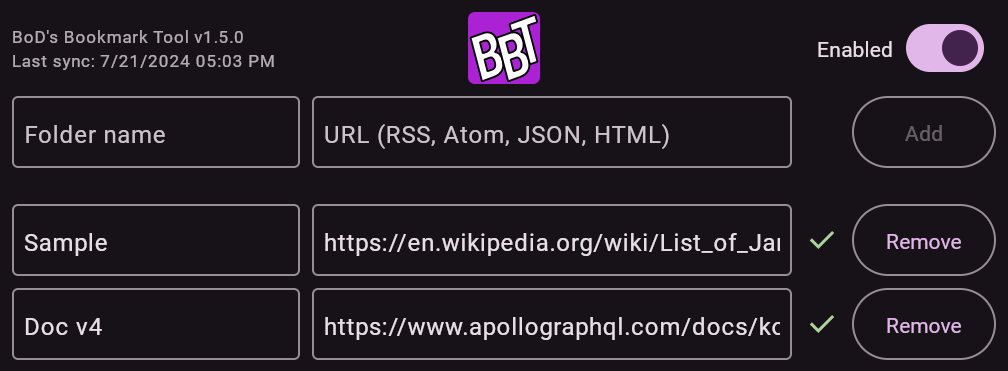
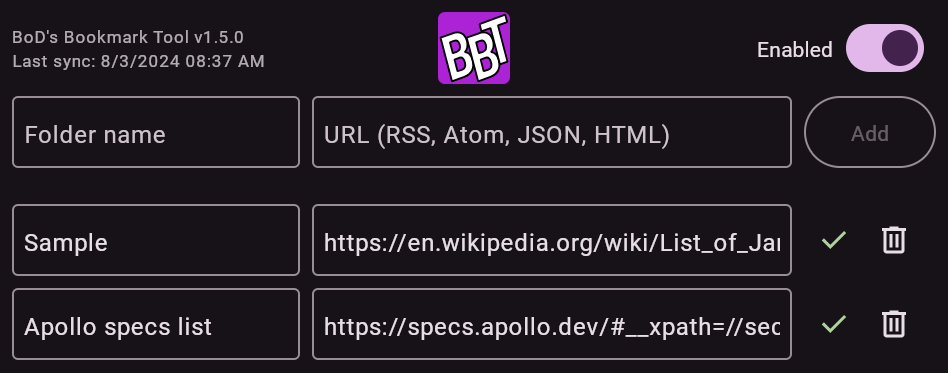
Update README and tweak popup UI

diff --git a/popup/src/jsMain/kotlin/org/jraf/bbt/popup/Popup.kt b/popup/src/jsMain/kotlin/org/jraf/bbt/popup/Popup.kt
@@ -233,6 +233,7 @@ private fun ColumnScope.SyncItemList(
 
           // Remove button
           IconButton(
+            modifier = Modifier.width(40.dp),
             onClick = {
               onRemoveItem(syncItem)
             },
@@ -285,7 +286,7 @@ private fun AddItemRow(onAddItem: suspend (folderName: String, remoteBookmarksUr
     var remoteBookmarksUrlErrorText: String? by remember { mutableStateOf(null) }
     DenseOutlinedTextField(
       modifier = Modifier.width(320.dp),
-      placeholder = { Text("URL (RSS, Atom, JSON, HTML)") },
+      placeholder = { Text("URL (RSS, Atom, OPML, JSON, HTML)") },
       value = remoteBookmarksUrl,
       singleLine = true,
       onValueChange = {
@@ -307,7 +308,7 @@ private fun AddItemRow(onAddItem: suspend (folderName: String, remoteBookmarksUr
     OutlinedButton(
       modifier = Modifier
         .height(48.dp)
-        .width(88.dp),
+        .width(80.dp),
       contentPadding = PaddingValues(0.dp),
       enabled = isAddButtonEnabled,
       onClick = {

diff --git a/README.md b/README.md
@@ -1,6 +1,6 @@
 # BoD's Bookmark Tool
 
-This small extension for Chrome allows you to synchronize any bookmark folder with a remote document.
+This small extension for Chrome allows you to synchronize bookmark folders with a remote document.
 
 Ideal to share a bunch of bookmarks with your team at work, or your loved ones!
 
@@ -13,18 +13,25 @@ Ideal to share a bunch of bookmarks with your team at work, or your loved ones!
 
 ## Supported remote document formats
 
-The remote document can either be RSS, Atom, HTML, or a proprietary "bookmarks" JSON format.
+The remote document can either be RSS, Atom, OPML, HTML, or a 'bookmarks' JSON format.
 
 ### RSS / Atom
 
 The `item` elements will be extracted from the feed, and the `title` and `link` elements / `href` attributes will be used to create the
 bookmarks.
 
+### OPML
+
+The `outline` elements will be extracted from the OPML document, and the `text` or 'title' attributes will be used for the bookmark's name.
+The `url`, 'htmlUrl', or 'xmlUrl' attributes will be used for the bookmark's URL.
+
+Subfolders are supported by nesting `outline` elements.
+
 ### HTML
 
 All `A` elements of the document will be extracted, unless an XPath expression is provided in the URL.
 To do so, append `#__xpath=<expression>` to the URL, for instance `https://example.com/bookmarks.html#__xpath=//div[@id='bookmarks']`.
-The XPath can either refer to a list of `A` elements, or a single container from which the embedded `A` elements will be extracted.
+The XPath can either refer to a list of `A` elements, or a single container under which all `A` elements will be extracted.
 
 ### "bookmarks" JSON
 
